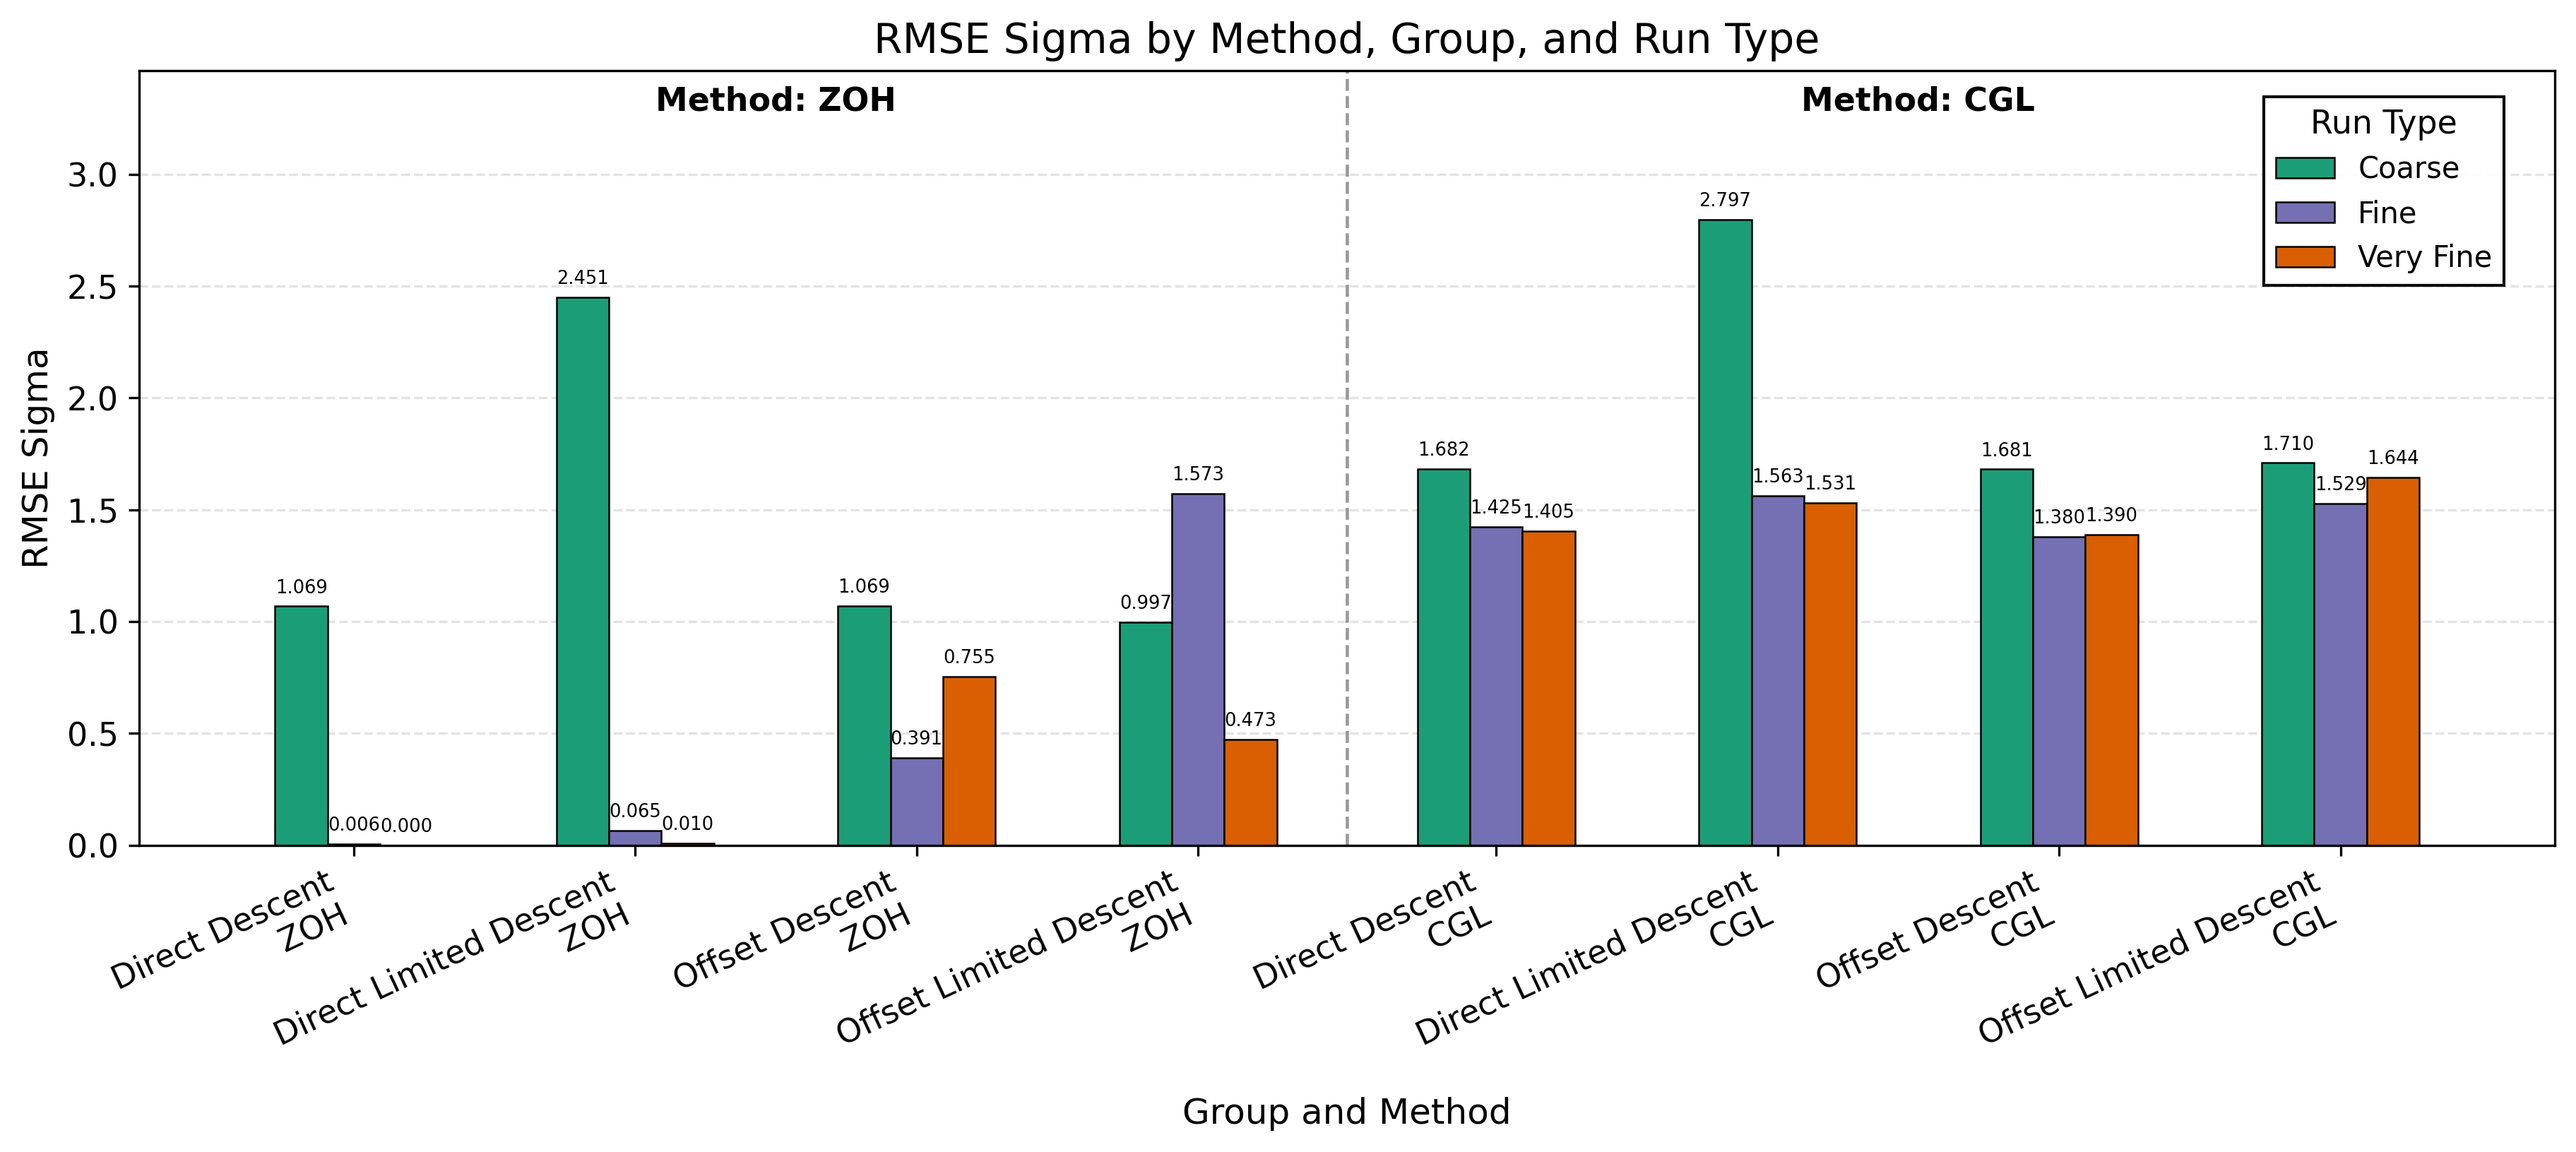
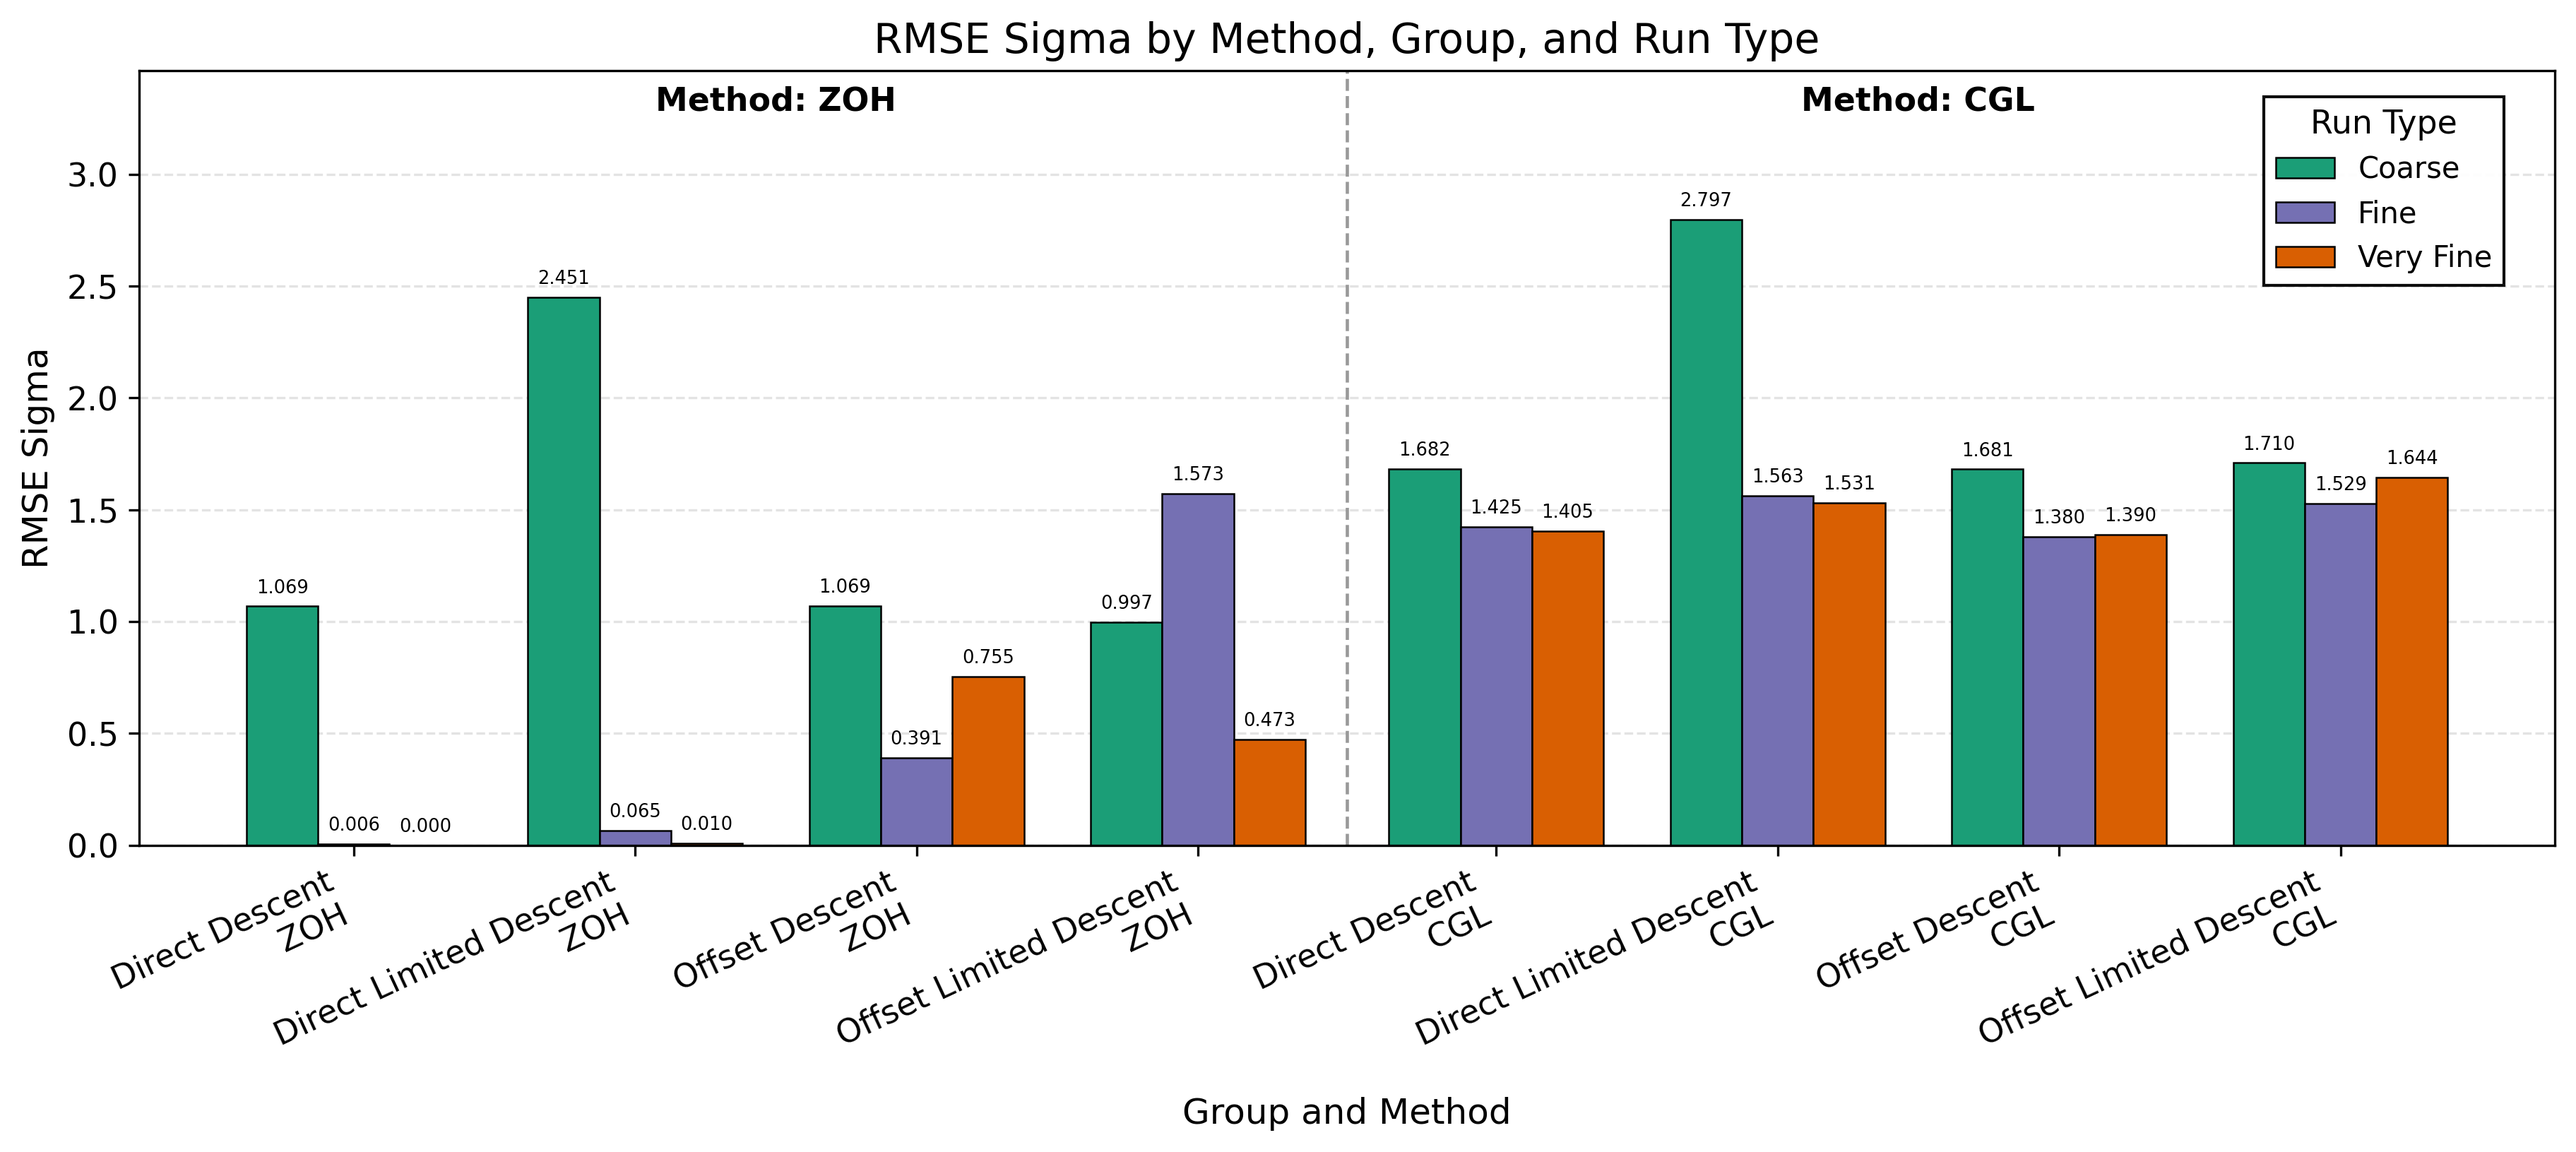
make look nicer

Changed region(s): [[0.3098, 0.1533, 0.9605, 0.7357], [0.093, 0.2146, 0.2789, 0.7357]]

diff --git a/Algorithms/LosslessConvexification/rust_lossless/src/plot_rmse_split_by_method.py b/Algorithms/LosslessConvexification/rust_lossless/src/plot_rmse_split_by_method.py
@@ -122,7 +122,7 @@ def plot_metric(
     n_groups = len(groups)
     group_spacing = 1.18
     split_gap = 1.25
-    bar_width = 0.22
+    bar_width = 0.30
     run_offsets = {
         "coarse": -bar_width,
         "fine": 0.0,

diff --git a/Algorithms/LosslessConvexification/rust_lossless/src/plot_avg_solve_time_grouped.py b/Algorithms/LosslessConvexification/rust_lossless/src/plot_avg_solve_time_grouped.py
@@ -131,7 +131,7 @@ def make_plot(
         }
     )
 
-    bar_width = 0.34
+    bar_width = 0.44
     run_type_spacing = 1.15
     group_spacing = 0.95
     method_offsets = {"zoh": -bar_width / 2.0, "cgl": bar_width / 2.0}
